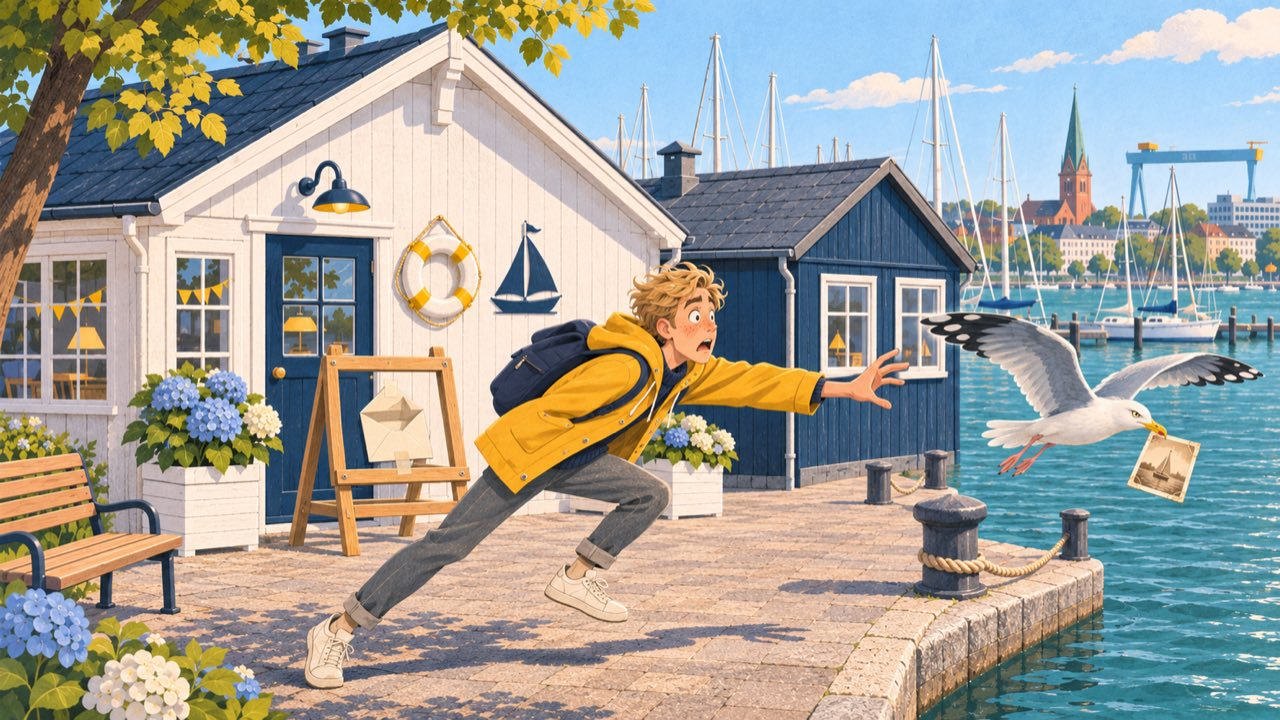
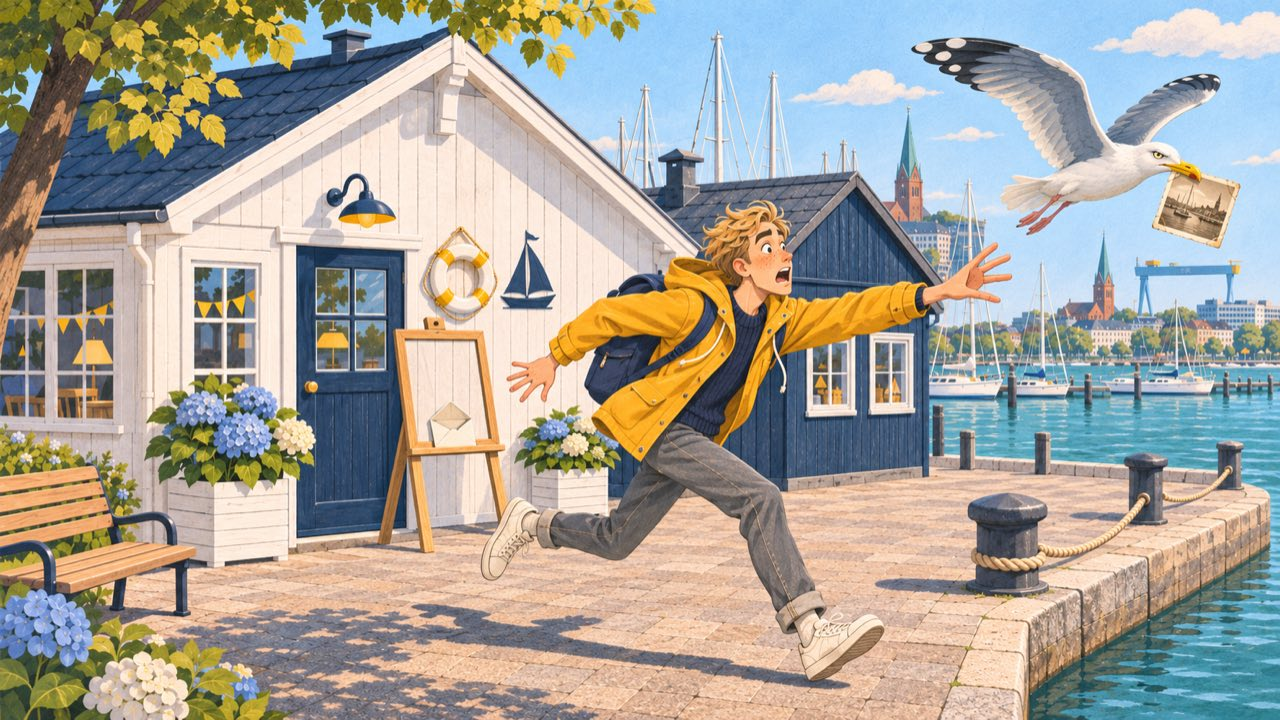
Redraw the chapter 3 morning picture with both of Hauke's hands

diff --git a/public/story-img/README.md b/public/story-img/README.md
@@ -40,7 +40,7 @@
 добавлен эталон Лотты, дочери фрау Петерсен, с псом Krümel (`art/refs/lotte.jpg`). Старое фото
 1976 года нарисовано как выцветший отпечаток; люди на нём вымышлены.
 
-- 03-morning.jpg — утро у клуба: чайка уносит старое фото из конверта на подставке, Хауке бросается следом.
+- 03-morning.jpg — утро у клуба: чайка уносит старое фото из конверта на подставке, Хауке бросается следом. Перерисована: в первом варианте у Хауке не было видно правой руки (замечание автора 6 ноября).
 - 03-photo1976.jpg — фото 1976 года с оторванным краем: Opa пишет MOIN, Oma с пирогом, мальчик с банкой.
 - 03-roof.jpg — семья чаек в гнезде на крыше клуба, в гнезде край фото; Элиф смотрит в бинокль.
 - 03-folder.jpg — фрау Петерсен листает папку, из-под стола хвост собаки; Йенсен уходит с кружкой.
